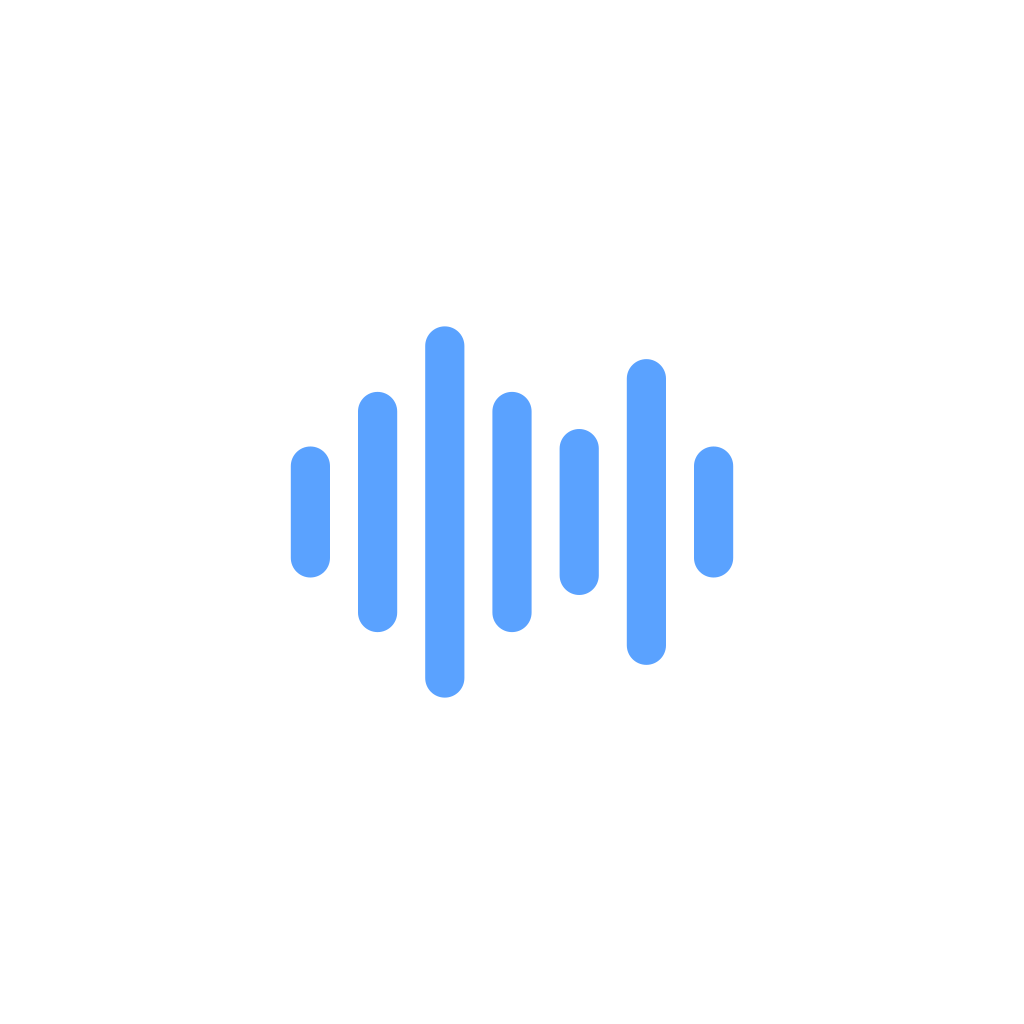
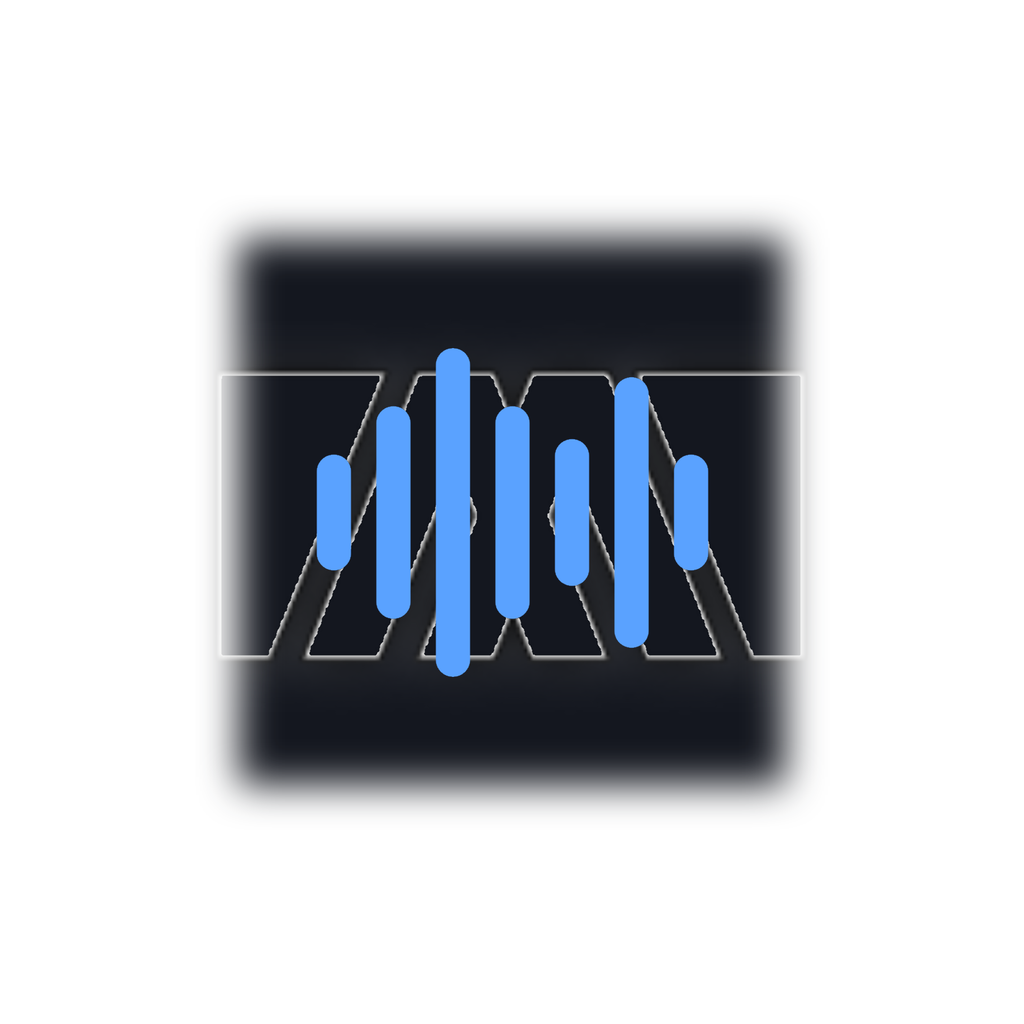
feat: アプリのアイコンと起動画面を差し替える
- アイコンを新しい画像に替える
- アダプティブアイコンの前景は，縁をぼかして背景色になじませる
- 起動画面の背景色をアイコンと同じにして，明るい表示でも継ぎ目を出さない
- NOTICE に，アイコンの背景に塞壬唱片のロゴの図形が含まれることを書く

Changed region(s): [[0.1875, 0.1875, 0.8125, 0.8125]]

diff --git a/app.config.ts b/app.config.ts
@@ -53,12 +53,9 @@ const config: ExpoConfig = {
 			'expo-splash-screen',
 			{
 				image: './assets/images/splash-icon.png',
-				imageWidth: 200,
-				backgroundColor: '#ffffff',
-				dark: {
-					image: './assets/images/splash-icon-dark.png',
-					backgroundColor: '#0f1218',
-				},
+				imageWidth: 240,
+				// アイコンの背景と同じ色にして，明るい表示でも暗い表示でも，四角の継ぎ目を出さない
+				backgroundColor: '#14171f',
 			},
 		],
 		'expo-router',

diff --git a/NOTICE.md b/NOTICE.md
@@ -40,7 +40,9 @@ Siren Player は非公式のアプリケーションであり，塞壬唱片 Mon
 
 ## 商標等
 
-アイコンは，本プロジェクトのために新たに作成した図であり，上記の権利者のロゴや画像を使っていない．
+アイコンの背景には，塞壬唱片 Monster Siren Records のロゴの図形が含まれる．
+このロゴは，塞壬唱片および Hypergryph の商標または著作物であり，同社から使用の許可を受けていない．
+アイコンは，本アプリが公式と関係があることを示すものではない．権利者から求められた場合は，速やかに差し替える．
 
 ## サードパーティ製ソフトウェア
 
